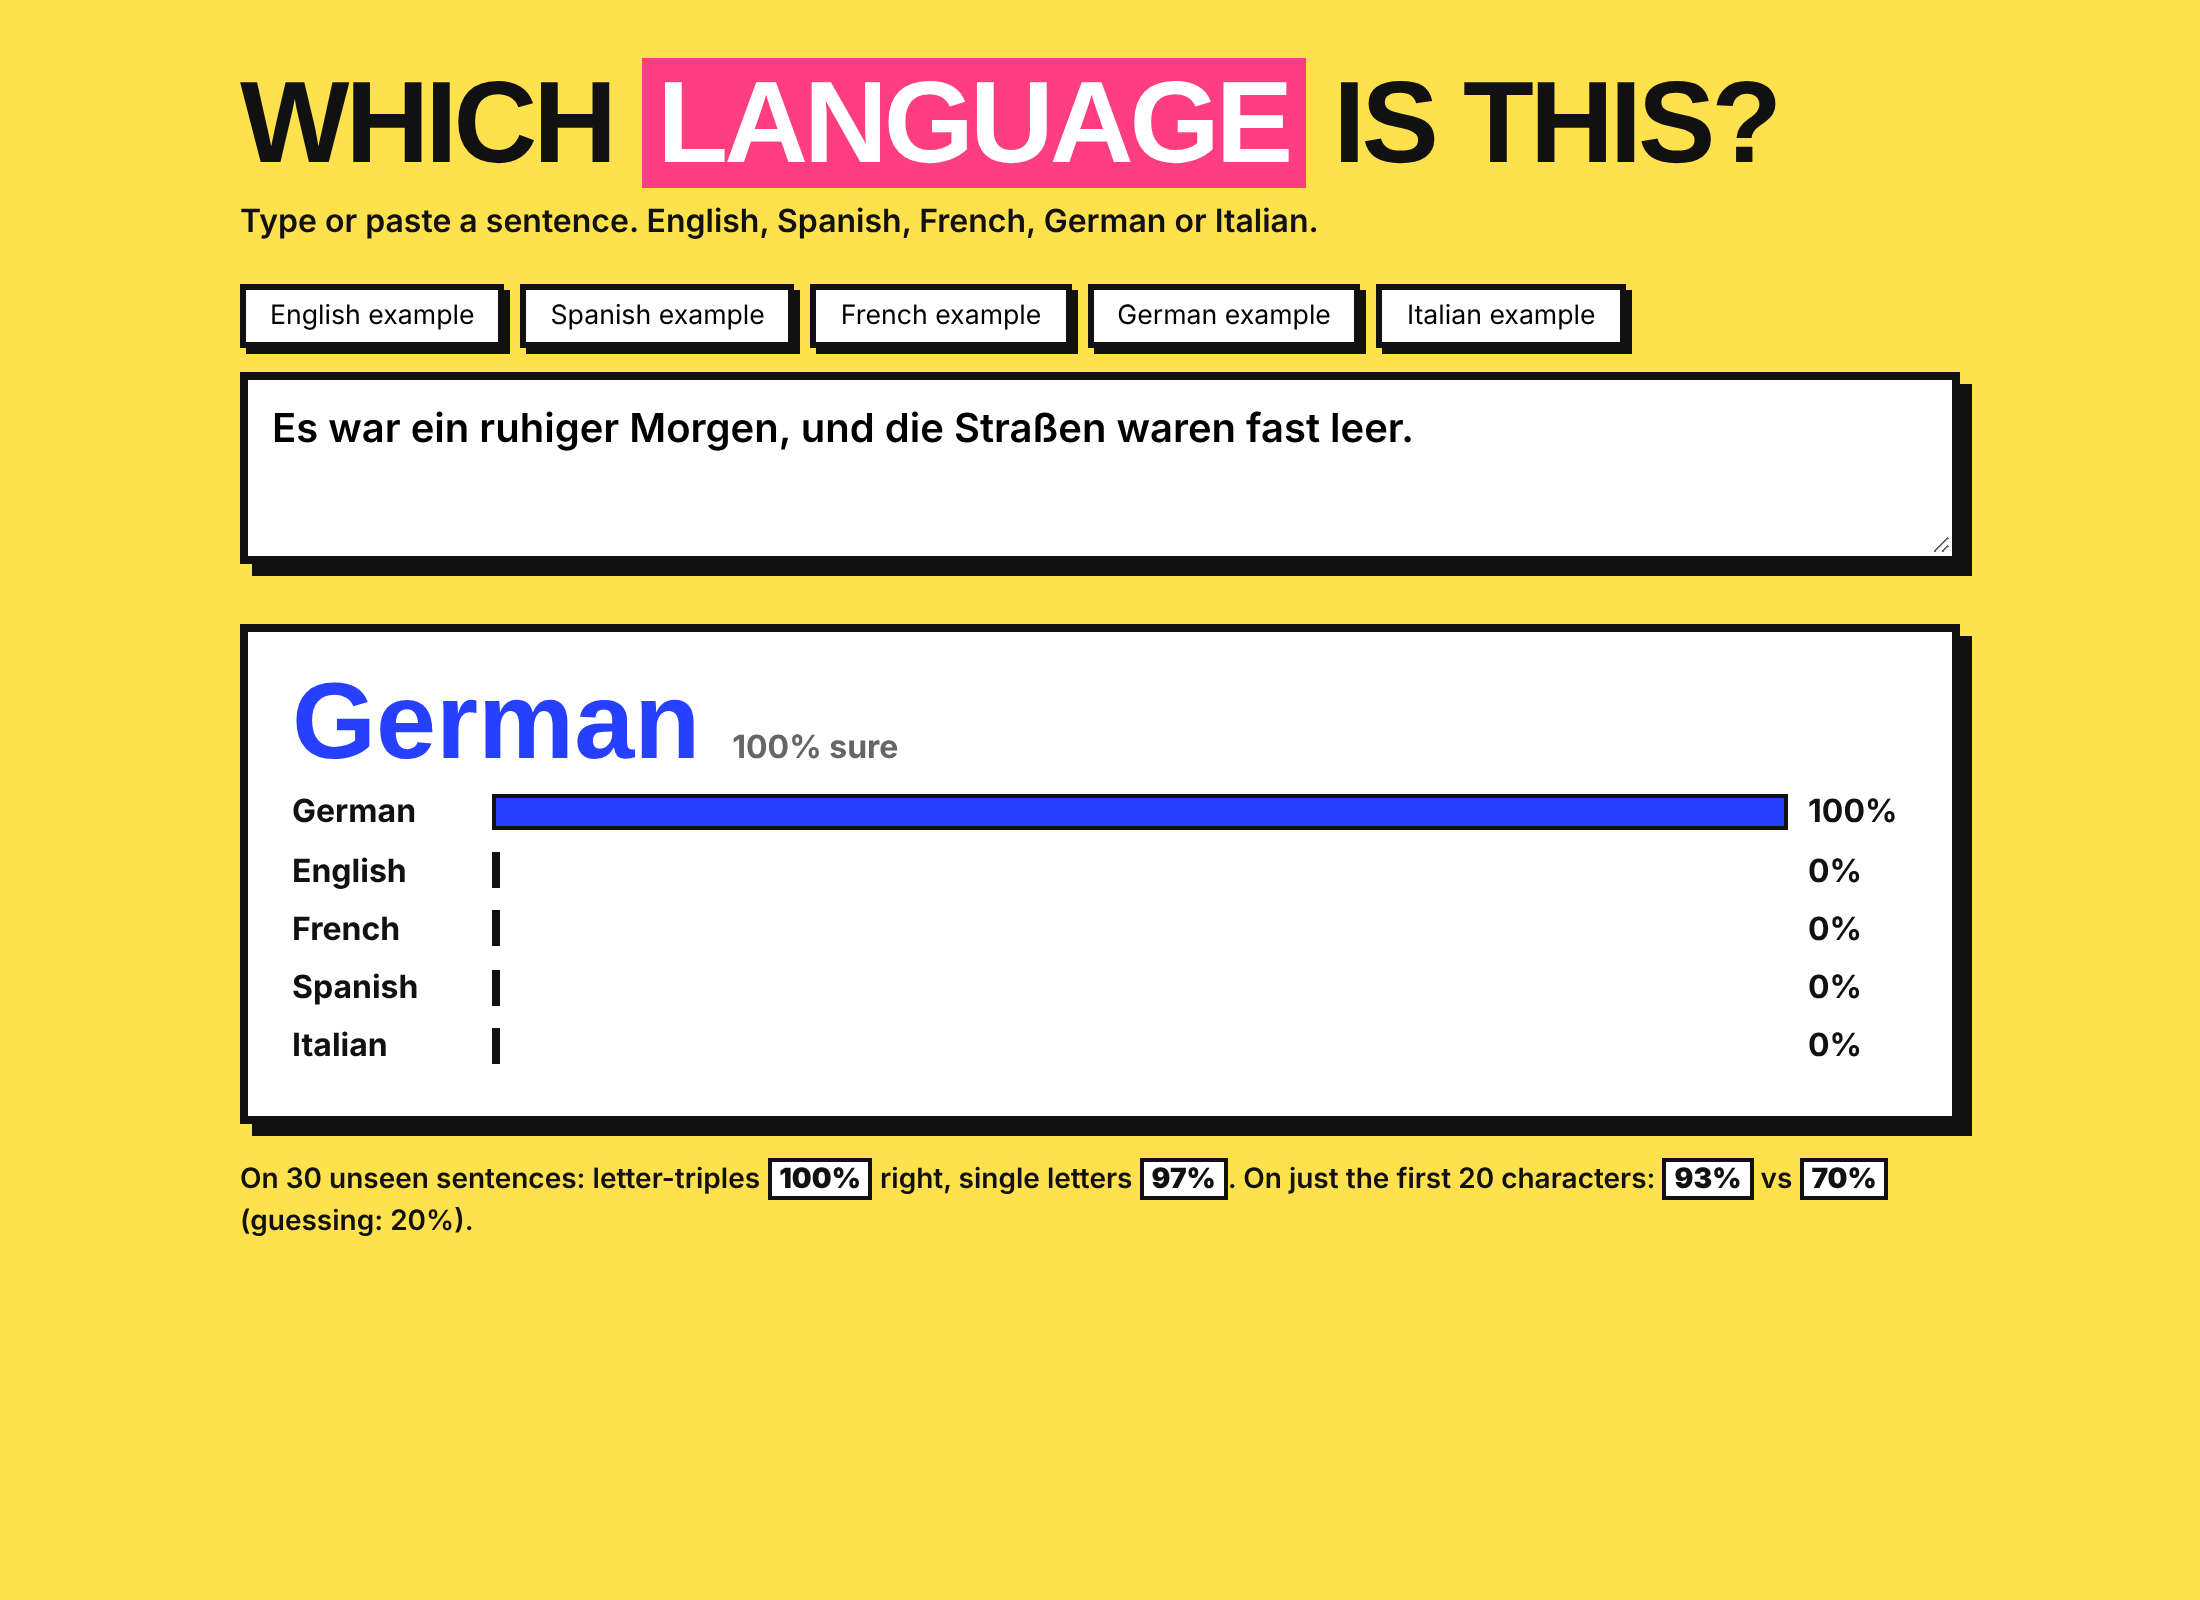
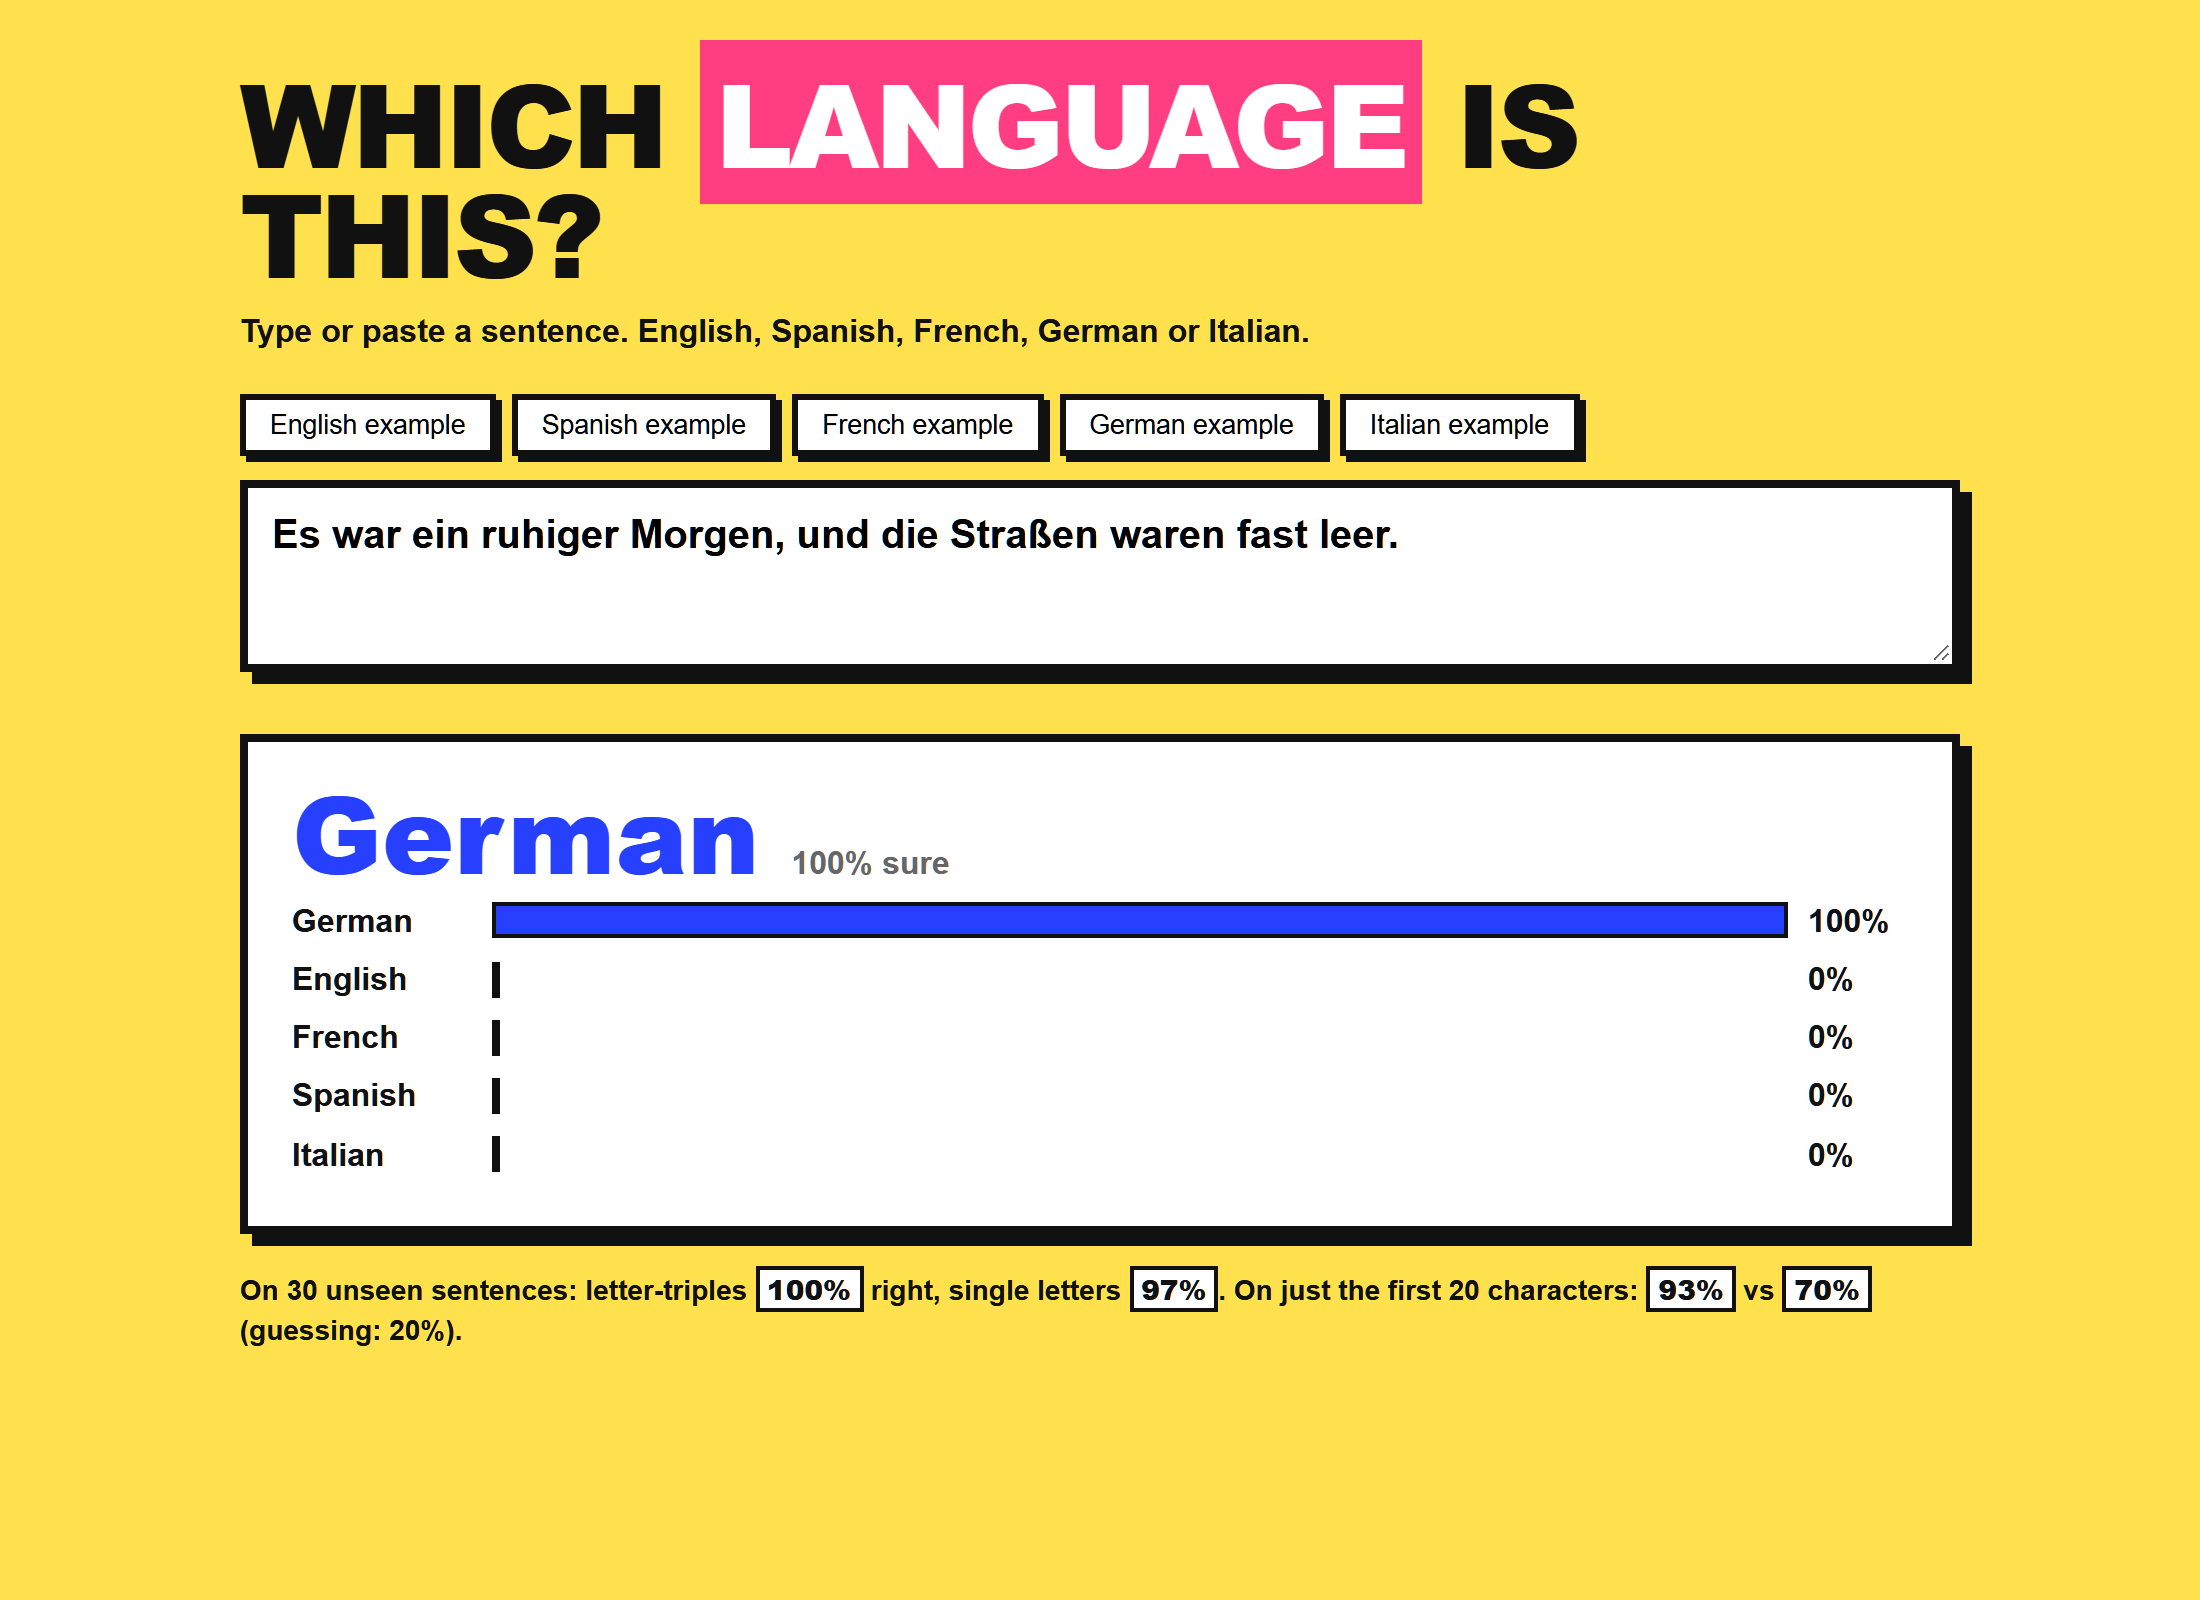
Improve language-guesser

Changed region(s): [[0.0927, 0.0, 0.8964, 0.8438]]

diff --git a/static/index.html b/static/index.html
@@ -3,7 +3,7 @@
 <style>
 :root{--bg:#fff;--ink:#111;--pink:#ff3d81;--blue:#2740ff;--yel:#ffe14d;--mut:#666}
 *{box-sizing:border-box}body{margin:0;background:var(--yel);color:var(--ink);font:16px/1.45 "Helvetica Neue",Arial,sans-serif;padding:34px 18px}
-main{max-width:860px;margin:auto}h1{font:900 58px/0.95 "Arial Black",Impact,sans-serif;margin:0 0 6px;letter-spacing:-2px;text-transform:uppercase}h1 span{background:var(--pink);color:#fff;padding:0 8px}
+main{max-width:860px;margin:auto}h1{font:900 clamp(34px,10vw,58px)/0.95 "Arial Black",Impact,sans-serif;margin:0 0 6px;letter-spacing:-2px;text-transform:uppercase}h1 span{background:var(--pink);color:#fff;padding:0 8px}
 p.s{font-weight:600;margin:10px 0 20px}
 .chips{display:flex;gap:8px;flex-wrap:wrap;margin-bottom:12px}.chips button{font:700 14px inherit;font-family:inherit;border:3px solid #111;background:#fff;padding:5px 12px;cursor:pointer;box-shadow:3px 3px 0 #111}.chips button:active{transform:translate(2px,2px);box-shadow:1px 1px 0 #111}
 textarea{width:100%;height:96px;font:600 20px "Helvetica Neue",Arial;border:4px solid #111;padding:12px;background:#fff;box-shadow:6px 6px 0 #111;resize:vertical}
@@ -11,19 +11,21 @@ textarea{width:100%;height:96px;font:600 20px "Helvetica Neue",Arial;border:4px 
 .top{display:flex;align-items:baseline;gap:16px;flex-wrap:wrap}.top b{font:900 54px "Arial Black",sans-serif;color:var(--blue);line-height:1}.top span{font-weight:700;color:var(--mut)}
 .r{display:grid;grid-template-columns:90px 1fr 50px;gap:10px;align-items:center;margin:6px 0;font-weight:700}.r i{display:block;height:18px;background:var(--pink);border:2px solid #111;min-width:2px}.r:first-of-type i{background:var(--blue)}
 .m{margin-top:18px;font-size:14px;font-weight:600}.m b{background:#fff;padding:0 4px;border:2px solid #111}
+@media (prefers-color-scheme: dark){:root{--bg:#1a1a1a;--ink:#f5f5f5;--pink:#ff6b9d;--blue:#8fa4ff;--yel:#2a2a10;--mut:#b5b5b5}.res,textarea,.m b{background:#262626;color:#f5f5f5;border-color:#f5f5f5}.res,textarea{box-shadow:6px 6px 0 #f5f5f5}.chips button{background:#262626;color:#f5f5f5;border-color:#f5f5f5;box-shadow:3px 3px 0 #f5f5f5}h1 span{color:#111}}
 </style></head><body><main>
 <h1>Which <span>language</span> is this?</h1><p class="s">Type or paste a sentence. English, Spanish, French, German or Italian.</p>
-<div class="chips" id="ch"></div><textarea id="tx" placeholder="Escribe algo, écris quelque chose, schreib etwas…"></textarea>
+<div class="chips" id="ch"></div><textarea id="tx" aria-label="Text to identify" placeholder="Escribe algo, écris quelque chose, schreib etwas…"></textarea>
 <div class="res"><div class="top" id="top"></div><div id="rk"></div></div>
 <p class="m" id="ev"></p></main>
 <script>
 const $=i=>document.getElementById(i);let tm;
 async function go(){const t=$('tx').value;if(!t.trim()){$('top').innerHTML='<span>Waiting for text…</span>';$('rk').innerHTML='';return}
-const r=await (await fetch('/guess',{method:'POST',headers:{'Content-Type':'application/json'},body:JSON.stringify({text:t})})).json();
+try{const r=await (await fetch('/guess',{method:'POST',headers:{'Content-Type':'application/json'},body:JSON.stringify({text:t})})).json();
 $('top').innerHTML=`<b>${r.language}</b><span>${Math.round(r.confidence*100)}% sure</span>`;
 $('rk').innerHTML=r.ranking.map(x=>`<div class="r"><span>${x.language}</span><i style="width:${x.p*100}%"></i><span>${Math.round(x.p*100)}%</span></div>`).join('')}
+catch(e){$('top').innerHTML='<span>Could not guess the language. Try again.</span>';$('rk').innerHTML='';}}
 fetch('/examples').then(r=>r.json()).then(d=>{$('ch').innerHTML=d.examples.map(e=>`<button>${e.language} example</button>`).join('');
 $('ch').onclick=ev=>{const i=[...$('ch').children].indexOf(ev.target.closest('button'));if(i>=0){$('tx').value=d.examples[i].text;go()}};$('tx').value=d.examples[3].text;go()});
 $('tx').oninput=()=>{clearTimeout(tm);tm=setTimeout(go,150)};
-fetch('/evaluation').then(r=>r.json()).then(e=>{$('ev').innerHTML=`On ${e.test_sentences} unseen sentences: letter-triples <b>${Math.round(e.trigram*100)}%</b> right, single letters <b>${Math.round(e.unigram*100)}%</b>. On just the first 20 characters: <b>${Math.round(e.trigram_short*100)}%</b> vs <b>${Math.round(e.unigram_short*100)}%</b> (guessing: ${Math.round(e.chance*100)}%).`});
+fetch('/evaluation').then(r=>r.json()).then(e=>{$('ev').innerHTML=`On ${e.test_sentences} unseen sentences: letter-triples <b>${Math.round(e.trigram*100)}%</b> right, single letters <b>${Math.round(e.unigram*100)}%</b>. On just the first 20 characters: <b>${Math.round(e.trigram_short*100)}%</b> vs <b>${Math.round(e.unigram_short*100)}%</b> (guessing: ${Math.round(e.chance*100)}%).`}).catch(()=>{$('ev').textContent='Accuracy figures unavailable right now.'});
 </script></body></html>

diff --git a/tests/test_all.py b/tests/test_all.py
@@ -63,3 +63,14 @@ def test_api():
     assert c.post("/guess", json={"text": ""}).status_code == 422
     assert len(c.get("/examples").json()["examples"]) == 5
     assert c.get("/evaluation").json()["trigram"] == 1.0 and c.get("/").status_code == 200
+
+
+def test_index_has_error_and_label_text():
+    page = c.get("/").text
+    assert "Could not guess the language" in page and "Accuracy figures unavailable" in page
+    assert 'aria-label="Text to identify"' in page
+
+
+def test_index_has_dark_colour_scheme_and_phone_heading():
+    page = c.get("/").text
+    assert "prefers-color-scheme: dark" in page and "clamp(34px,10vw,58px)" in page

diff --git a/src/langguess/core.py b/src/langguess/core.py
@@ -48,7 +48,7 @@ class Model:
 
 
 def load(path: Path = DATA) -> dict[str, list[str]]:
-    return json.loads(path.read_text())  # type: ignore[no-any-return]
+    return json.loads(path.read_text(encoding="utf-8"))  # type: ignore[no-any-return]
 
 
 def split(corpus: dict[str, list[str]]) -> tuple[dict[str, list[str]], list[tuple[str, str]]]:
